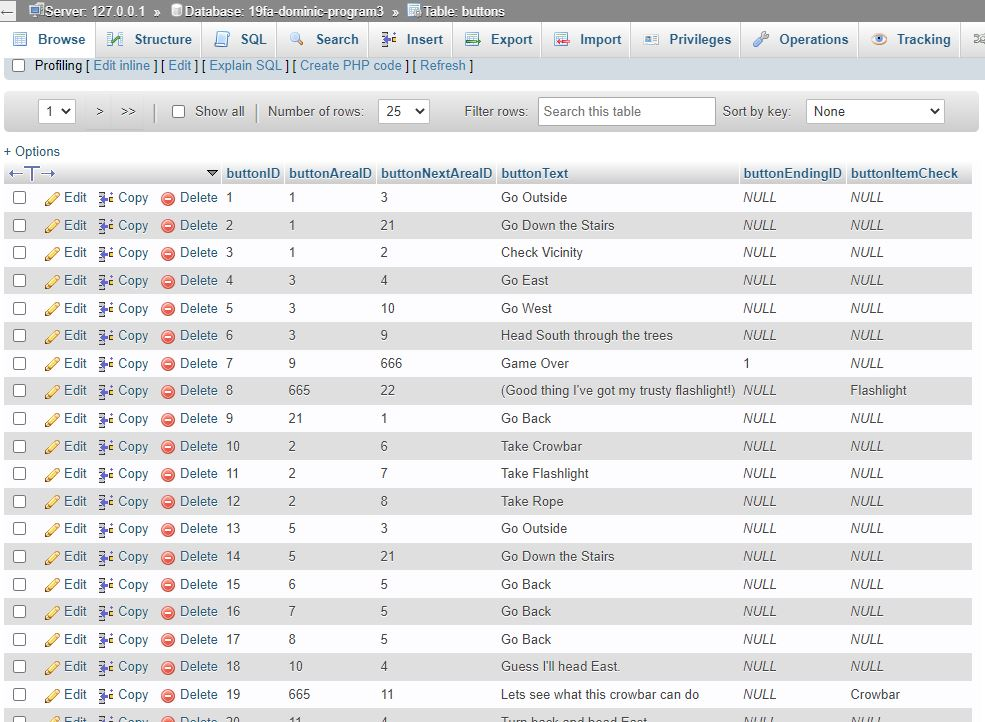
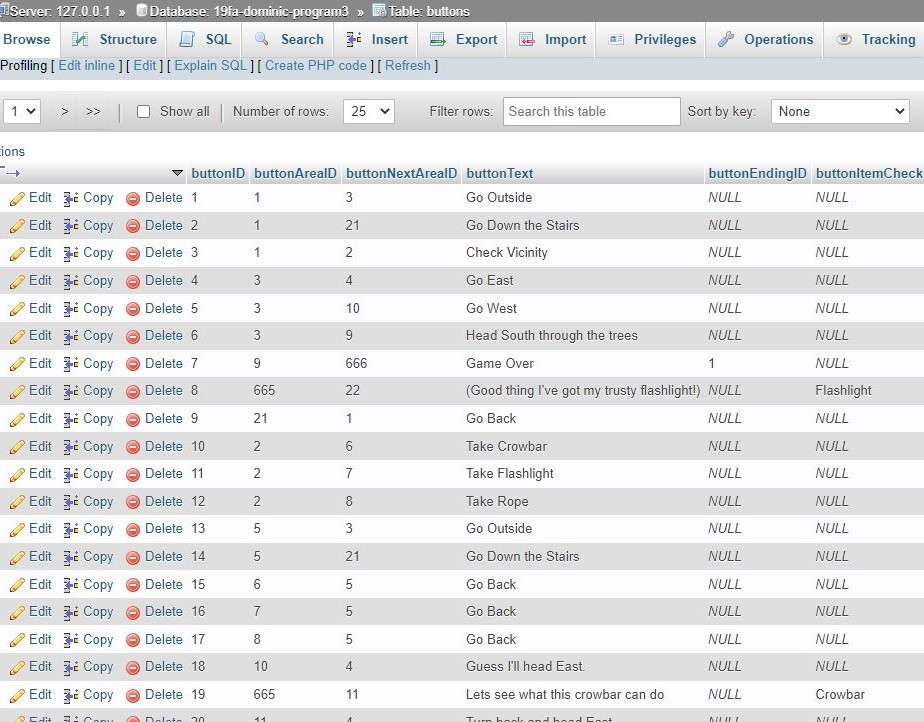
Progress on Click Adventure page

diff --git a/PHPClickAdventure.html b/PHPClickAdventure.html
@@ -23,10 +23,7 @@
 	<div id="phpMain">
 		<h2 id="top">PHP Fun!</h2>
 		<p>
-		<a href="#code">Down to code</a>
-		</p>
-		<p>
-		Page Under Construction
+		<a href="#database">Down to database</a>
 		</p>
 		<p>
 		For my Php class's big project, I decided to make a game similar to a text based 
@@ -73,11 +70,44 @@
 		<a href="#top">To Top</a>
 		</p>
 		<br>
-		<h3>Some Code</h3>
-		<p id="code">
-		Page Under Construction
+		<h3>A look at the database</h3>
+		<p id="database">
+		<img src="images/ClickDBOutline.JPG" alt="A look at the tables in the database.">
+		<img src="images/ClickDBPlayersTable.JPG" alt="Players table">
+		In the Players table, passwords are hashed and then the hash of the password is stored.
 		</p>
-		
+		<p>
+		<img src="images/ClickDBEndingsTable.JPG" alt="A table of the endings and their id's">
+		This Endings table shows all of the endings and the id associated with that ending.
+		</p>
+		<p>
+		<img src="images/ClickDBEndingTable.JPG" alt="Ending table">
+		The Ending (not plural) table saves each ending reached by each player, but only the first
+		time that player reached the ending. In hindsight, EndingName could've been left out of this
+		table, as that information is retrieved from the Endings table via the EndingID column in 
+		this table.<br> 
+		Ending Time is just a timestamp when that ending was achieved. PlayerEnd is the ID of the 
+		player that reached that ending, and is used on the Endings page to show all of the endings
+		that player reached.
+		</p>
+		<p>
+		<img src="images/ClickDBLocationsTable.JPG" alt="Locations table">
+		It's important to note that when playing through the game, each time new text and buttons
+		pop up, that you are in a new 'area,' even though your character might still be standing in
+		the same place. Each 'area' is just each set of text for the story. Every areaID will have an 
+		areaTerrain, which is the same name as the image that gives visual to where you're standing.<br>
+		The areaStory is all of the text that would be displayed to the user. The areaItem is sent to 
+		and stored on the Player, for use later in the game. areaItemCheck is the item you need to hold
+		in order to get the button option to continue on a different path on that screen.
+		</p>
+		<p>
+		<img src="images/ClickDBButtonsTable.JPG" alt="Buttons table">
+		Each button has a buttonID. The buttonAreaID is the screen, or 'area,' that that button will show
+		itself on. buttonNextAreaID is the area that button will take you too. buttonText is what the
+		button says. buttonEndingID is from the Endings table, and awarded when you reach each game over
+		screen. buttonItemCheck will prevent that button from showing up, unless your character is holding
+		that item.
+		</p>
 		<p>
 		<a href="#top">To Top</a>
 		</p>
